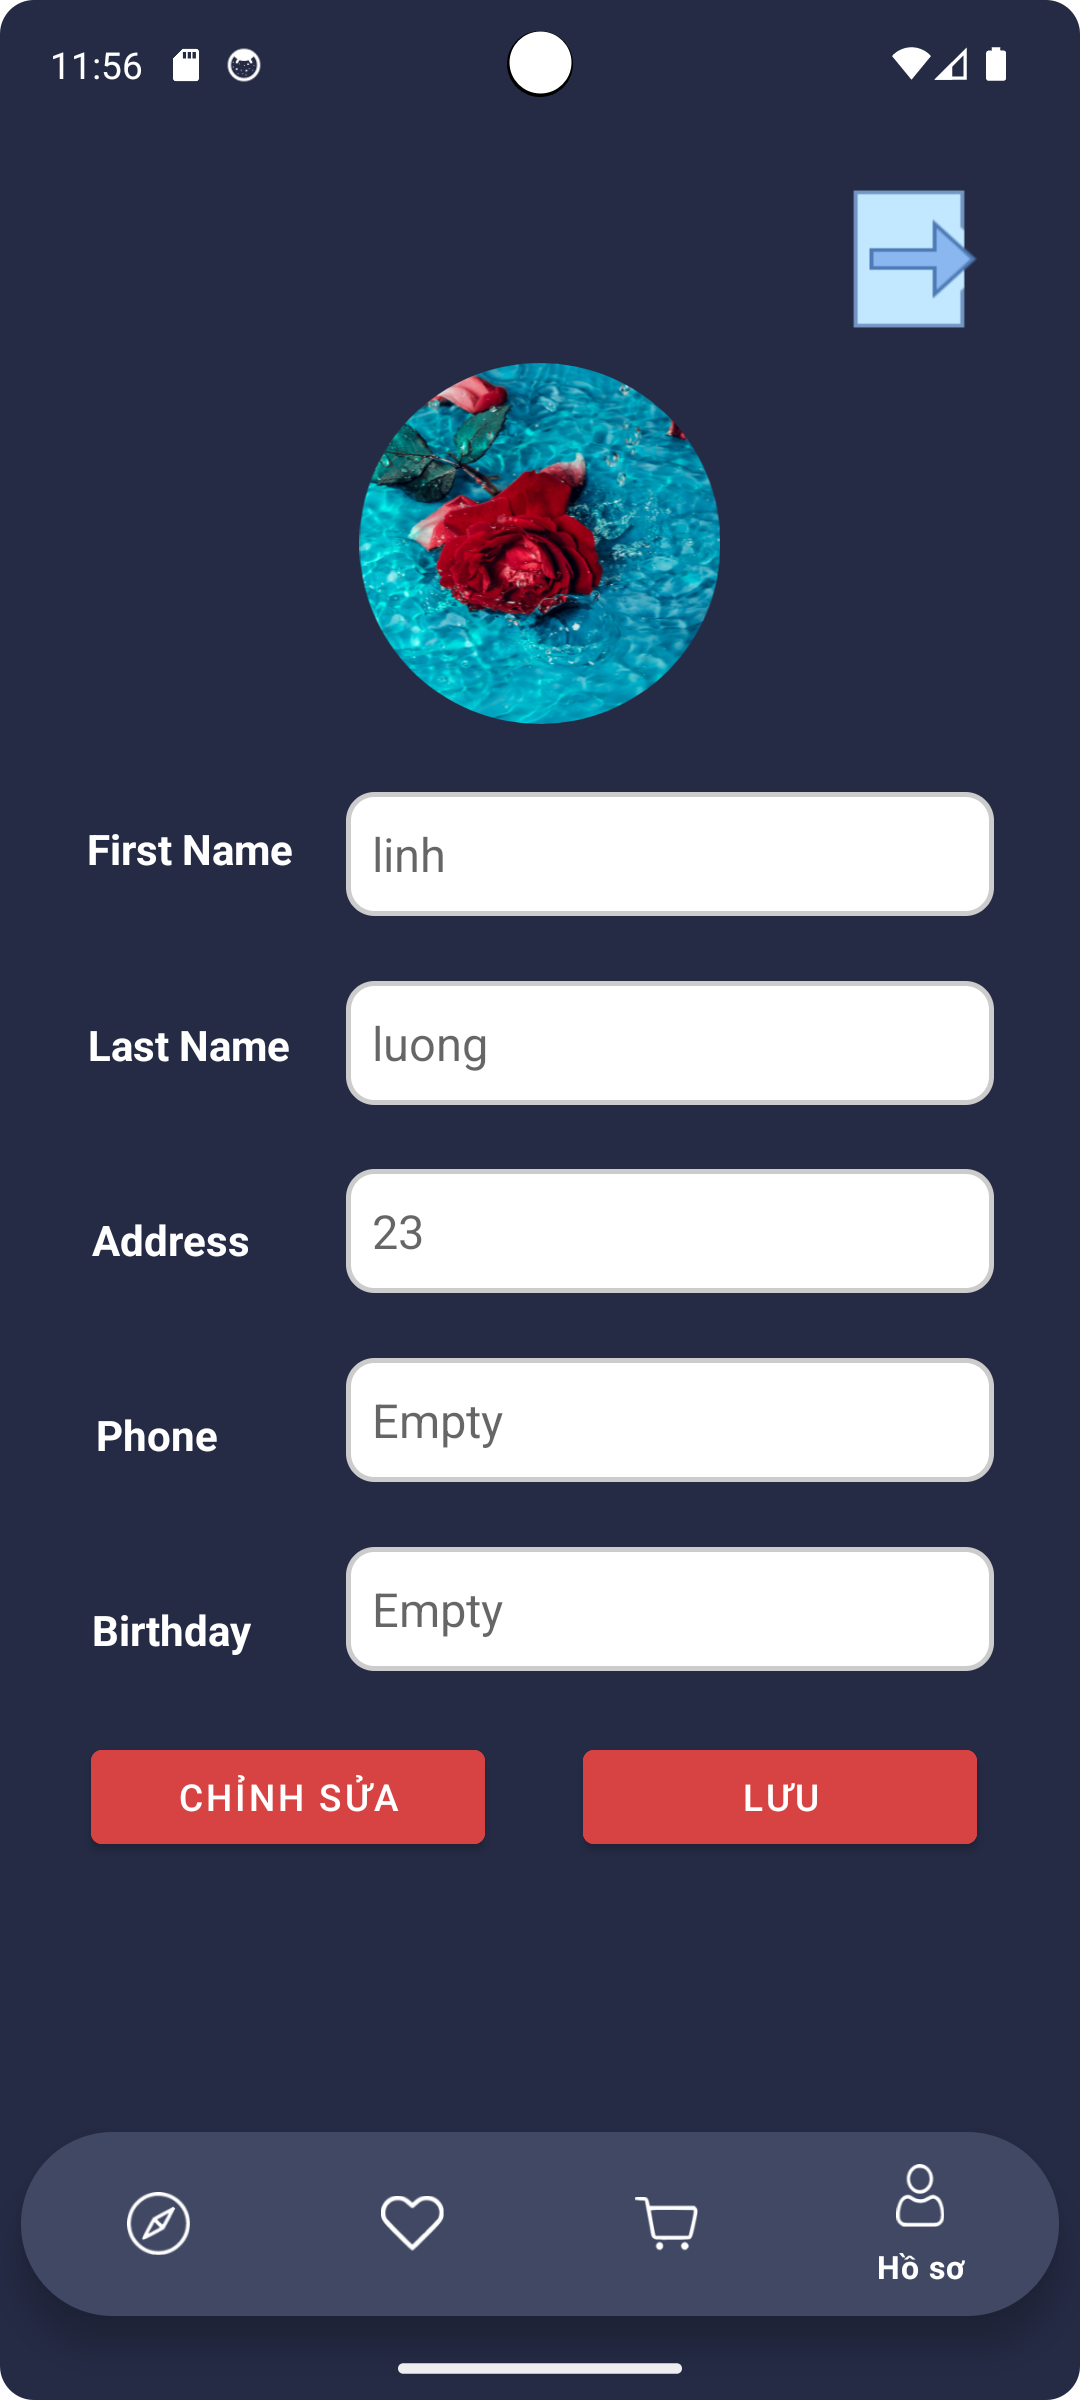
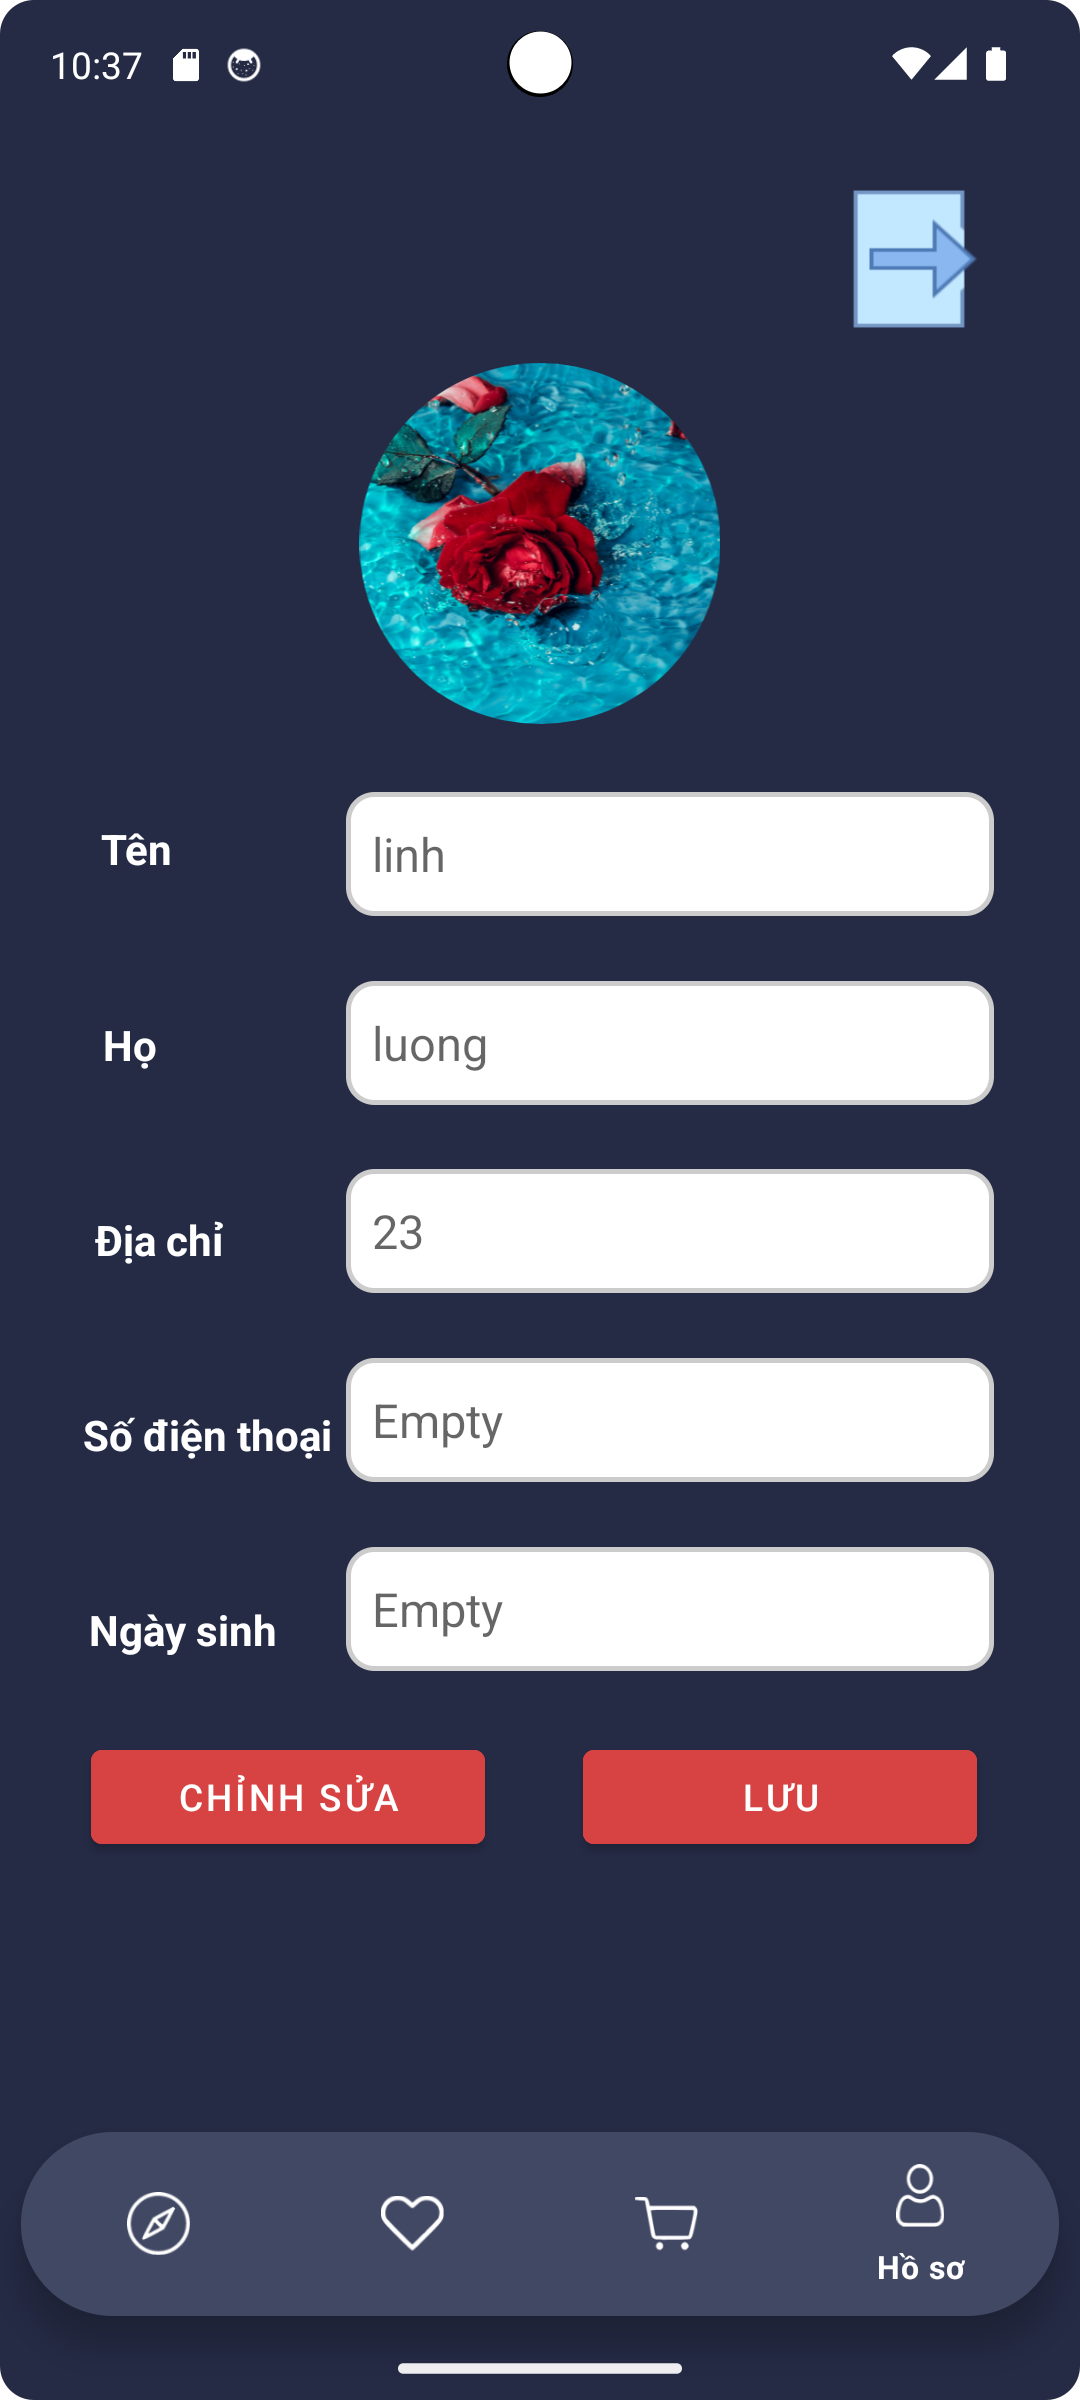
Làm đẹp phần readme

diff --git a/app/src/main/java/linh/edu/moviesapp/Activities/ProfileFragment.java b/app/src/main/java/linh/edu/moviesapp/Activities/ProfileFragment.java
@@ -144,7 +144,7 @@ public class ProfileFragment extends Fragment {
             BottomSheetDialog bottomSheetDialog = new BottomSheetDialog(requireContext());
             bottomSheetDialog.setContentView(bottomSheetView);
             TextView txtTitle = bottomSheetView.findViewById(R.id.txtTitle);
-            txtTitle.setText("Are you sure you want to logout?");
+            txtTitle.setText("Bạn có muốn đăng xuất?");
 
             Button btnConfirmLogout = bottomSheetView.findViewById(R.id.btnConfirm);
             btnConfirmLogout.setOnClickListener(v1 -> {
@@ -170,11 +170,11 @@ public class ProfileFragment extends Fragment {
         BottomSheetDialog bottomSheetDialog = new BottomSheetDialog(requireContext());
         bottomSheetDialog.setContentView(bottomSheetView);
         Button btnConfirm = bottomSheetView.findViewById(R.id.btnConfirm);
-        btnConfirm.setText("Upload Image");
+        btnConfirm.setText("Tải ảnh lên");
         Button btnCancel = bottomSheetView.findViewById(R.id.btnCancel);
-        btnCancel.setText("Remove Image");
+        btnCancel.setText("Xóa ảnh");
         TextView txtTitle = bottomSheetView.findViewById(R.id.txtTitle);
-        txtTitle.setText("Do you want to upload new image?");
+        txtTitle.setText("Bạn có muốn tải ảnh lên?");
         btnConfirm.setOnClickListener(v1 -> {
             // check permission for camera
             if (ActivityCompat.checkSelfPermission(requireContext(), Manifest.permission.CAMERA) != PackageManager.PERMISSION_GRANTED) {

diff --git a/README.md b/README.md
@@ -47,6 +47,7 @@
 <div>
   <h4>10.Giao diện phần Hồ sơ</h4>
   <img src = "https://github.com/lvlinh45/Movies-app/blob/main/images/hoso.png" width = "350">
+  <img src = "https://github.com/lvlinh45/Movies-app/blob/main/images/taianhlen.png" width = "350">
 </div>
 
 ---
